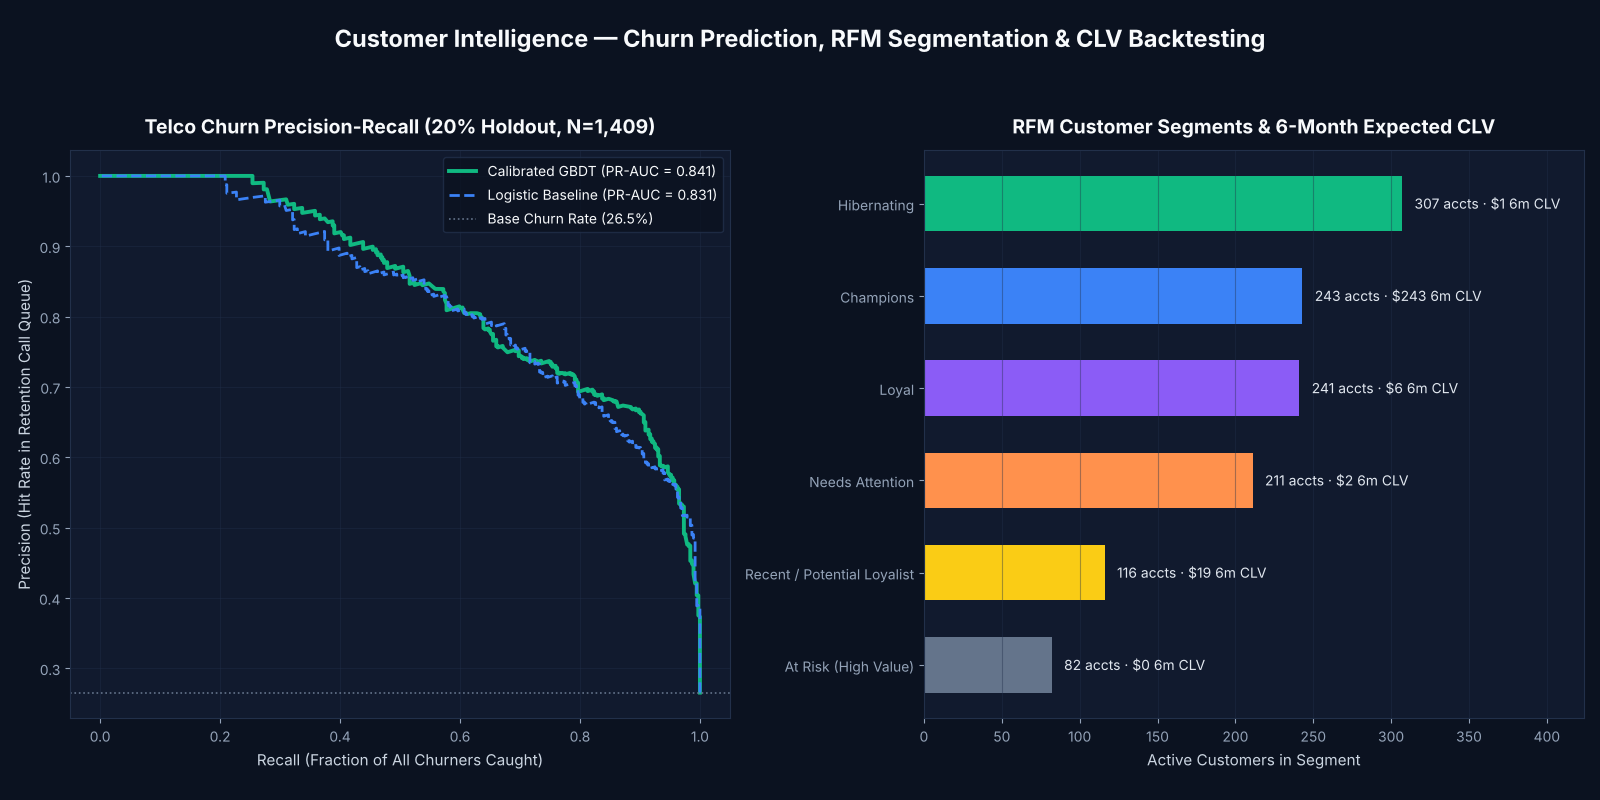
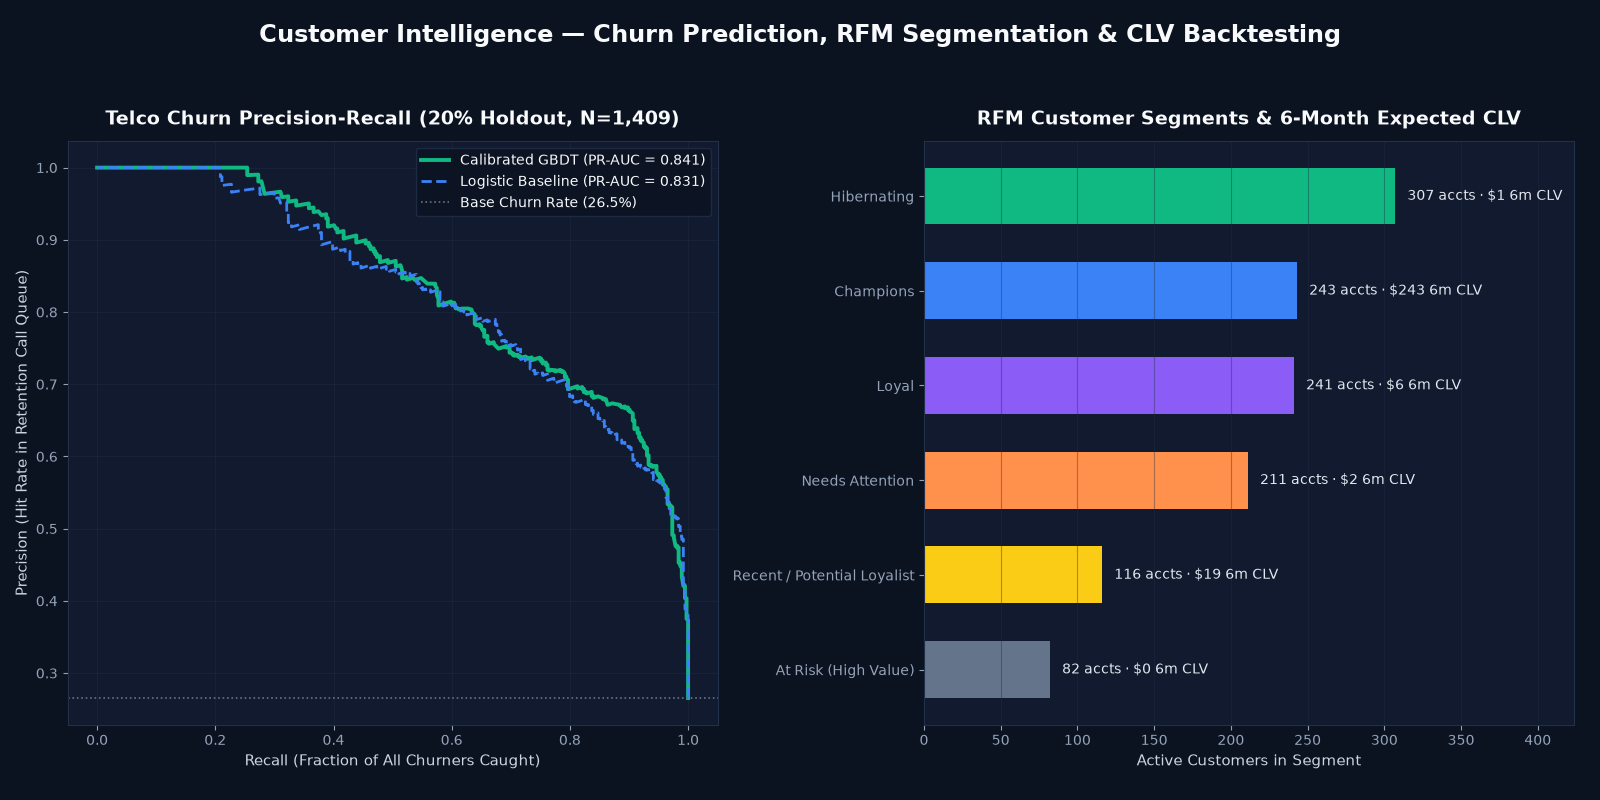
fix(ci): render charts with matplotlib defaults, not the machine's matplotlibrc
The remaining PNG drift had a non-numeric cause: the build machine exports
MATPLOTLIBRC=/etc/matplotlib (font.family Inter, text.hinting no_hinting), so committed
charts used Inter while the runner used DejaVu Sans (CI diagnostic: 176,564 pixels
differ, max delta 244, in sp500 hero.png). tests/conftest.py now drops MATPLOTLIBRC and
calls matplotlib.rcdefaults(). Regenerated images now match the runner's blobs exactly
(sp500 hero 48712a9, post_square bfeea74; cars hero d21e8a6).

Claude-Session: https://claude.ai/code/session_01HeTRdmBL76YF5tAWX9wiPg

diff --git a/machine-learning/cars-model-analysis/tests/conftest.py b/machine-learning/cars-model-analysis/tests/conftest.py
@@ -1,9 +1,16 @@
 """Make `pytest` regenerate reports/ and img/ byte-for-byte on any machine.
 
-scikit-learn's OpenMP code (e.g. HistGradientBoosting) sums in an order that depends on the
-number of threads, so a 4-core CI runner and an 8-core laptop drew slightly different charts.
-pytest imports this file before the test modules, i.e. before scikit-learn starts OpenMP.
+Loaded by pytest before the test modules, i.e. before the pipeline imports scikit-learn.
+- scikit-learn's OpenMP code (e.g. HistGradientBoosting) sums in an order that depends on the
+  number of threads, so a 4-core CI runner and an 8-core laptop drew slightly different charts.
+- A machine-wide matplotlibrc (MATPLOTLIBRC, ~/.config/matplotlib) can change fonts and hinting;
+  charts are always rendered with matplotlib's built-in defaults.
 """
 import os
 
 os.environ["OMP_NUM_THREADS"] = "1"
+os.environ.pop("MATPLOTLIBRC", None)
+
+import matplotlib  # noqa: E402
+
+matplotlib.rcdefaults()

diff --git a/machine-learning/customer-retention/tests/conftest.py b/machine-learning/customer-retention/tests/conftest.py
@@ -1,9 +1,16 @@
 """Make `pytest` regenerate reports/ and img/ byte-for-byte on any machine.
 
-scikit-learn's OpenMP code (e.g. HistGradientBoosting) sums in an order that depends on the
-number of threads, so a 4-core CI runner and an 8-core laptop drew slightly different charts.
-pytest imports this file before the test modules, i.e. before scikit-learn starts OpenMP.
+Loaded by pytest before the test modules, i.e. before the pipeline imports scikit-learn.
+- scikit-learn's OpenMP code (e.g. HistGradientBoosting) sums in an order that depends on the
+  number of threads, so a 4-core CI runner and an 8-core laptop drew slightly different charts.
+- A machine-wide matplotlibrc (MATPLOTLIBRC, ~/.config/matplotlib) can change fonts and hinting;
+  charts are always rendered with matplotlib's built-in defaults.
 """
 import os
 
 os.environ["OMP_NUM_THREADS"] = "1"
+os.environ.pop("MATPLOTLIBRC", None)
+
+import matplotlib  # noqa: E402
+
+matplotlib.rcdefaults()

diff --git a/machine-learning/prosper-loan-risk/tests/conftest.py b/machine-learning/prosper-loan-risk/tests/conftest.py
@@ -1,9 +1,16 @@
 """Make `pytest` regenerate reports/ and img/ byte-for-byte on any machine.
 
-scikit-learn's OpenMP code (e.g. HistGradientBoosting) sums in an order that depends on the
-number of threads, so a 4-core CI runner and an 8-core laptop drew slightly different charts.
-pytest imports this file before the test modules, i.e. before scikit-learn starts OpenMP.
+Loaded by pytest before the test modules, i.e. before the pipeline imports scikit-learn.
+- scikit-learn's OpenMP code (e.g. HistGradientBoosting) sums in an order that depends on the
+  number of threads, so a 4-core CI runner and an 8-core laptop drew slightly different charts.
+- A machine-wide matplotlibrc (MATPLOTLIBRC, ~/.config/matplotlib) can change fonts and hinting;
+  charts are always rendered with matplotlib's built-in defaults.
 """
 import os
 
 os.environ["OMP_NUM_THREADS"] = "1"
+os.environ.pop("MATPLOTLIBRC", None)
+
+import matplotlib  # noqa: E402
+
+matplotlib.rcdefaults()

diff --git a/machine-learning/sp500-analysis/tests/conftest.py b/machine-learning/sp500-analysis/tests/conftest.py
@@ -1,9 +1,16 @@
 """Make `pytest` regenerate reports/ and img/ byte-for-byte on any machine.
 
-scikit-learn's OpenMP code (e.g. HistGradientBoosting) sums in an order that depends on the
-number of threads, so a 4-core CI runner and an 8-core laptop drew slightly different charts.
-pytest imports this file before the test modules, i.e. before scikit-learn starts OpenMP.
+Loaded by pytest before the test modules, i.e. before the pipeline imports scikit-learn.
+- scikit-learn's OpenMP code (e.g. HistGradientBoosting) sums in an order that depends on the
+  number of threads, so a 4-core CI runner and an 8-core laptop drew slightly different charts.
+- A machine-wide matplotlibrc (MATPLOTLIBRC, ~/.config/matplotlib) can change fonts and hinting;
+  charts are always rendered with matplotlib's built-in defaults.
 """
 import os
 
 os.environ["OMP_NUM_THREADS"] = "1"
+os.environ.pop("MATPLOTLIBRC", None)
+
+import matplotlib  # noqa: E402
+
+matplotlib.rcdefaults()

diff --git a/machine-learning/tlc-cab-fare-intelligence/tests/conftest.py b/machine-learning/tlc-cab-fare-intelligence/tests/conftest.py
@@ -1,9 +1,16 @@
 """Make `pytest` regenerate reports/ and img/ byte-for-byte on any machine.
 
-scikit-learn's OpenMP code (e.g. HistGradientBoosting) sums in an order that depends on the
-number of threads, so a 4-core CI runner and an 8-core laptop drew slightly different charts.
-pytest imports this file before the test modules, i.e. before scikit-learn starts OpenMP.
+Loaded by pytest before the test modules, i.e. before the pipeline imports scikit-learn.
+- scikit-learn's OpenMP code (e.g. HistGradientBoosting) sums in an order that depends on the
+  number of threads, so a 4-core CI runner and an 8-core laptop drew slightly different charts.
+- A machine-wide matplotlibrc (MATPLOTLIBRC, ~/.config/matplotlib) can change fonts and hinting;
+  charts are always rendered with matplotlib's built-in defaults.
 """
 import os
 
 os.environ["OMP_NUM_THREADS"] = "1"
+os.environ.pop("MATPLOTLIBRC", None)
+
+import matplotlib  # noqa: E402
+
+matplotlib.rcdefaults()

diff --git a/machine-learning/waze-churn-prediction/tests/conftest.py b/machine-learning/waze-churn-prediction/tests/conftest.py
@@ -1,9 +1,16 @@
 """Make `pytest` regenerate reports/ and img/ byte-for-byte on any machine.
 
-scikit-learn's OpenMP code (e.g. HistGradientBoosting) sums in an order that depends on the
-number of threads, so a 4-core CI runner and an 8-core laptop drew slightly different charts.
-pytest imports this file before the test modules, i.e. before scikit-learn starts OpenMP.
+Loaded by pytest before the test modules, i.e. before the pipeline imports scikit-learn.
+- scikit-learn's OpenMP code (e.g. HistGradientBoosting) sums in an order that depends on the
+  number of threads, so a 4-core CI runner and an 8-core laptop drew slightly different charts.
+- A machine-wide matplotlibrc (MATPLOTLIBRC, ~/.config/matplotlib) can change fonts and hinting;
+  charts are always rendered with matplotlib's built-in defaults.
 """
 import os
 
 os.environ["OMP_NUM_THREADS"] = "1"
+os.environ.pop("MATPLOTLIBRC", None)
+
+import matplotlib  # noqa: E402
+
+matplotlib.rcdefaults()
